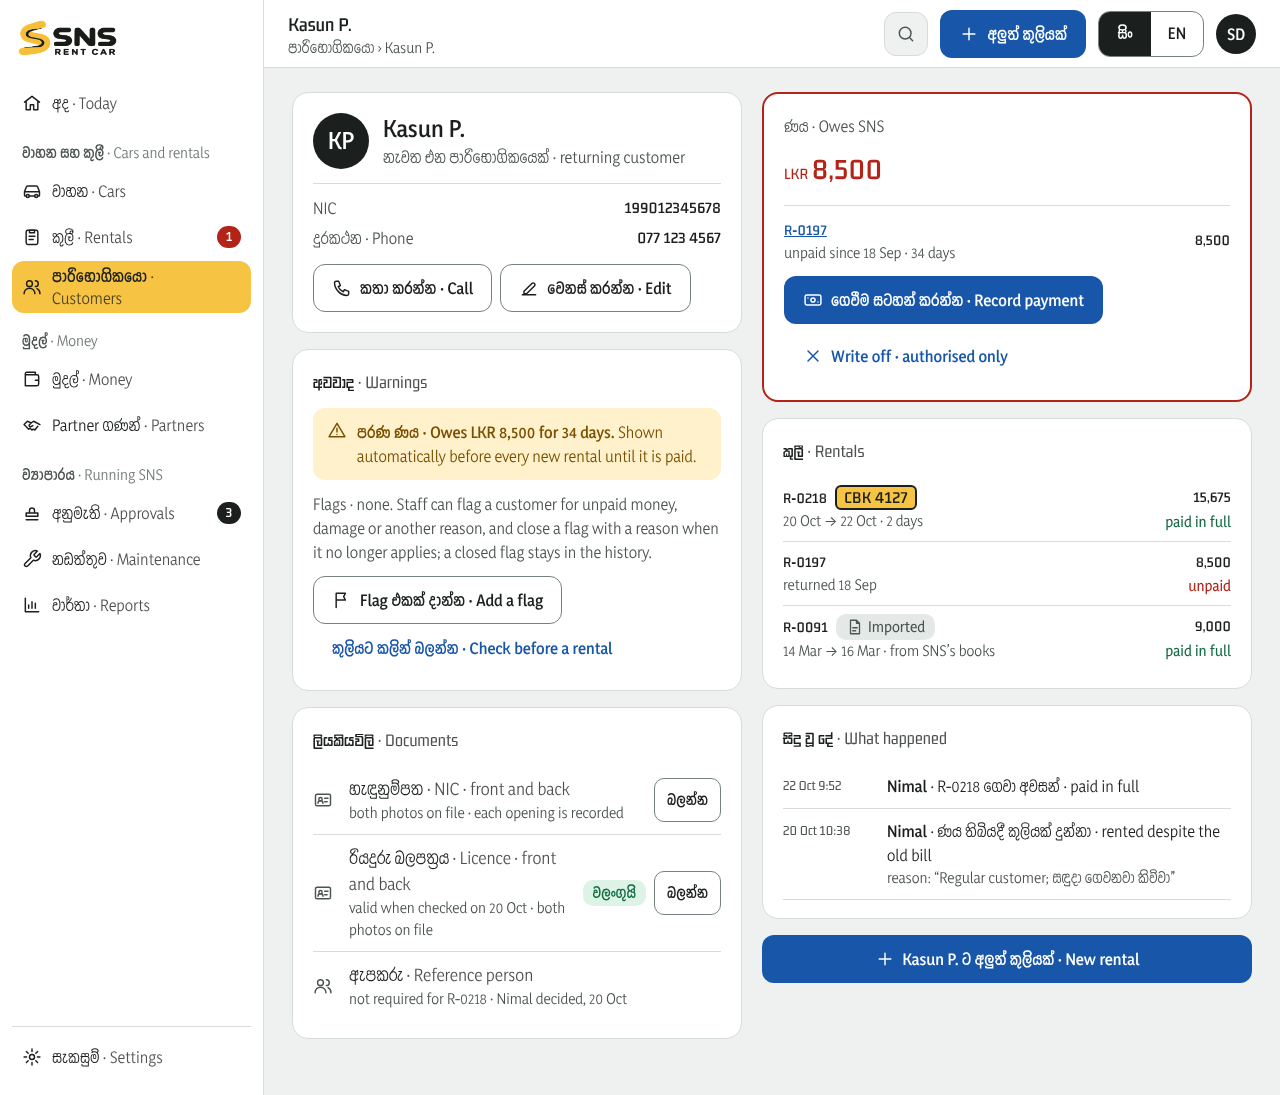
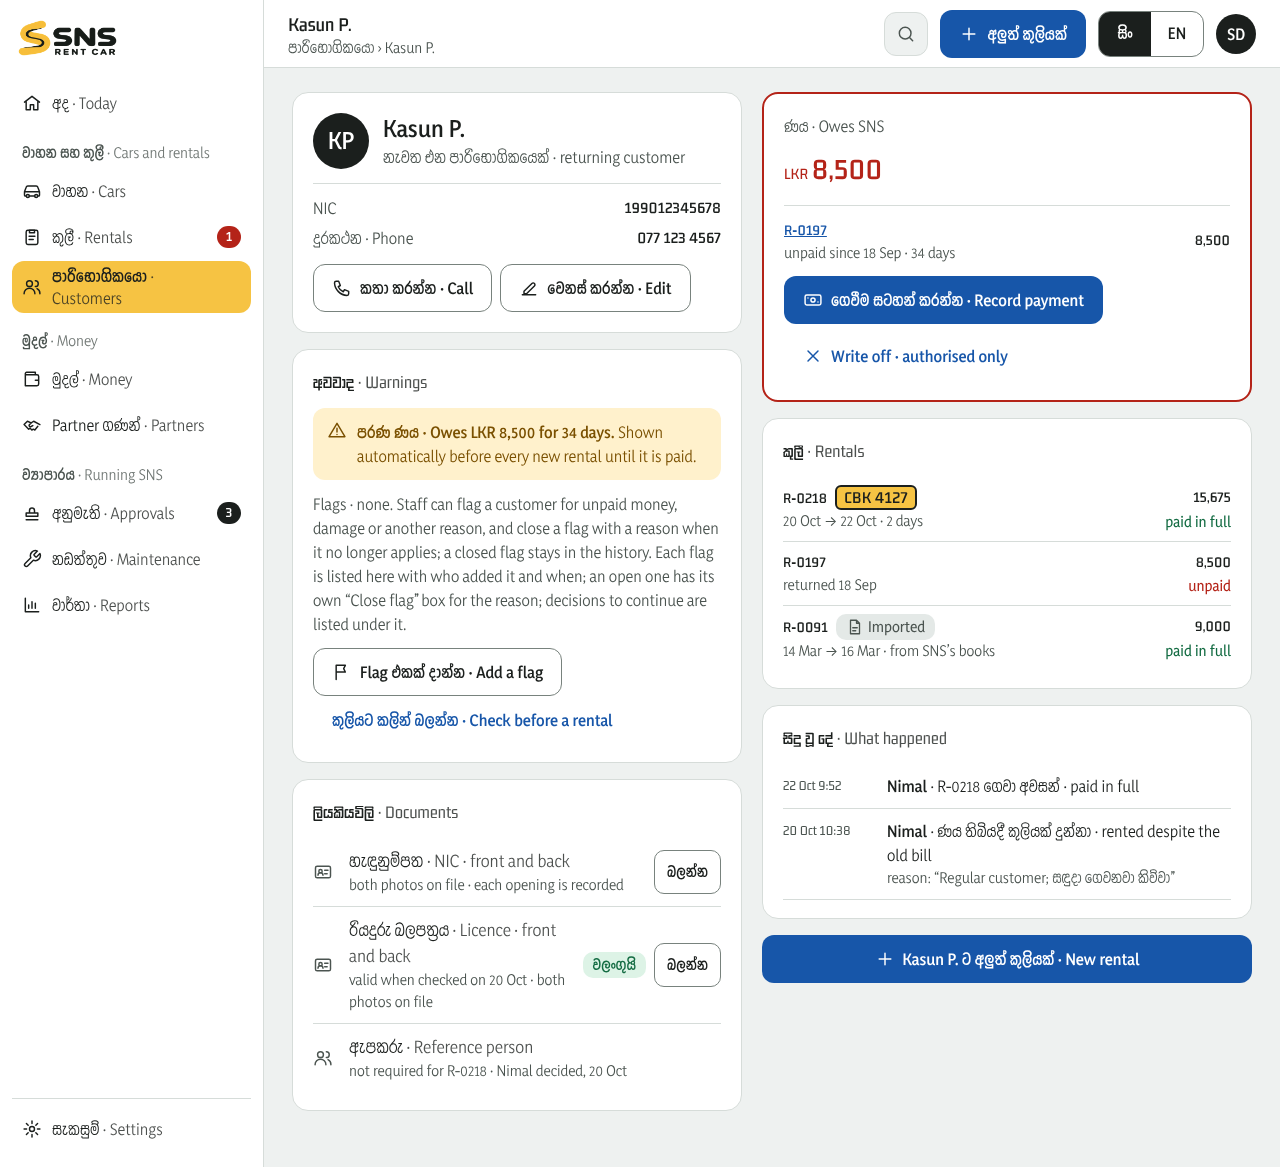
fix(customers): spec review fixes for flags (#24)
- Tests now prove the reason, the name and the time are recorded, and
  that a flag shows to every person (another staff member, an admin).
- "Nothing to warn about" now says only what the page checks: no flags
  and a valid licence; money owed and copies come with New rental.
- System design 6: the 500-letter limit, the "warnings changed" and
  "nothing to record" refusals, the flags and decisions lists, and the
  daily summary in Phase 4, written down as Proposed.
- Board 08.2 says how flags and decisions are listed; the boards below
  it on the canvas moved down to make room.

Claude-Session: https://claude.ai/code/session_01JihUABmzkdXJus8B6m8jnW

diff --git a/app/tests/customer-flags.test.ts b/app/tests/customer-flags.test.ts
@@ -1,7 +1,7 @@
 import { describe, it, expect } from 'vitest';
-import { eq } from 'drizzle-orm';
+import { and, eq } from 'drizzle-orm';
 import { db } from '../src/db/client';
-import { customer, user } from '../src/db/schema';
+import { auditEvent, customer, customerGoAhead, user } from '../src/db/schema';
 import { addCustomer } from '../src/modules/customers/customers';
 import { addFlag, goAhead, warningsFor } from '../src/modules/customers/flags';
 import { setPermission } from '../src/modules/people/people';
@@ -41,10 +41,23 @@ describe('ST-08.4: warnings before a rental', () => {
     // The screen showed no flag, but there is one now: refused.
     expect(await goAhead(staff.id, id, { reason: 'Sample: regular customer', shownFlagIds: [], shownLicenceExpired: false })).toEqual({ error: 'stale' });
     const ok = await goAhead(staff.id, id, { reason: 'Sample: regular customer, mirror paid', shownFlagIds: [flag.id], shownLicenceExpired: false });
-    expect(ok).toMatchObject({ ok: true });
+    if (!('ok' in ok)) throw new Error(ok.error);
+    // The reason, the name and the time are recorded, with the flag that was shown.
+    const [row] = await db.select().from(customerGoAhead).where(eq(customerGoAhead.id, ok.id));
+    expect(row).toMatchObject({ customerId: id, reason: 'Sample: regular customer, mirror paid', createdBy: staff.id, flagIds: [flag.id], licenceExpired: false });
+    expect(Date.now() - row.createdAt.getTime()).toBeLessThan(60_000);
+    const [log] = await db.select().from(auditEvent).where(and(eq(auditEvent.action, 'customer.goAhead'), eq(auditEvent.targetId, id)));
+    expect(log).toMatchObject({ createdBy: staff.id, details: { reason: 'Sample: regular customer, mirror paid', flags: 1 } });
     // Without "Go ahead despite a customer flag" (the owner can take it away), staff cannot.
     await setPermission(await theOwner(), staff.id, 'proceedDespiteFlag', false);
     expect(await goAhead(staff.id, id, { reason: 'Sample', shownFlagIds: [flag.id], shownLicenceExpired: false })).toEqual({ error: 'notAllowed' });
+    // The flag shows to every person, whoever added it: another staff member and an admin both get it, and it was
+    // still shown to the staff member who may no longer continue.
+    const other = await samplePerson();
+    const admin = await samplePerson('first-pass-1', 'admin');
+    expect(await goAhead(other.id, id, { reason: 'Sample: seen', shownFlagIds: [], shownLicenceExpired: false })).toEqual({ error: 'stale' });
+    expect(await goAhead(admin.id, id, { reason: 'Sample: seen by the admin', shownFlagIds: [flag.id], shownLicenceExpired: false })).toMatchObject({ ok: true });
+    expect((await warningsFor(id))!.openFlags.map((f) => f.id)).toEqual([flag.id]);
   });
 
   it('with an expired licence, staff cannot continue; the authorised person can, and the licence stays expired', async () => {

diff --git a/screens/canvas/08-Customers-CustomerDetails-Phone.dc.html b/screens/canvas/08-Customers-CustomerDetails-Phone.dc.html
@@ -47,7 +47,7 @@ a{color:#1756a9}a:hover{color:#0f3e7e}
     <x-import component-from-global-scope="Plate.Icon" name="alert" size="{{twenty}}" style="flex: none; margin-top: 2px"></x-import>
     <span><b>පරණ ණය · Owes LKR 8,500 for 34 days.</b> Shown automatically before every new rental until it is paid.</span>
   </div>
-  <div style="font-size: 15px; line-height: 24px; color: var(--ink-muted)">Flags · none. Staff can flag a customer for unpaid money, damage or another reason, and close a flag with a reason when it no longer applies; a closed flag stays in the history.</div>
+  <div style="font-size: 15px; line-height: 24px; color: var(--ink-muted)">Flags · none. Staff can flag a customer for unpaid money, damage or another reason, and close a flag with a reason when it no longer applies; a closed flag stays in the history. Each flag is listed here with who added it and when; an open one has its own “Close flag” box for the reason; decisions to continue are listed under it.</div>
   <div><a href="08-Customers-AddFlag-Phone.dc.html" class="rt-btn rt-btn-secondary" style="box-sizing: border-box; text-decoration: none; color: var(--ink)"><x-import component-from-global-scope="Plate.Icon" name="flag" size="{{twenty}}"></x-import><span>Flag එකක් දාන්න · Add a flag</span></a><a href="08-Customers-Warnings-Phone.dc.html" class="rt-btn rt-btn-quiet" style="box-sizing: border-box; text-decoration: none; color: var(--sapphire)"><span>කුලියට කලින් බලන්න · Check before a rental</span></a></div>
 </section>
     <section style="display: flex; flex-direction: column; gap: 12px; padding: 18px 20px; background: var(--card); border: 1px solid var(--line); border-radius: 16px">
@@ -90,7 +90,7 @@ a{color:#1756a9}a:hover{color:#0f3e7e}
   <div style="padding: 12px 16px; background: var(--card); border-top: 1px solid var(--line)"><a href="05-NewRental-Customer-Phone.dc.html" class="rt-btn rt-btn-primary rt-btn-full" style="box-sizing: border-box; text-decoration: none; color: var(--on-sapphire)"><x-import component-from-global-scope="Plate.Icon" name="plus" size="{{twenty}}"></x-import><span>අලුත් කුලියක් · New rental</span></a></div>
 </div>
 </x-dc>
-<script type="text/x-dc" data-dc-script data-props='{"$preview":{"width":390,"height":2229}}'>
+<script type="text/x-dc" data-dc-script data-props='{"$preview":{"width":390,"height":2301}}'>
 class Component extends DCLogic {
   renderVals() {
     return {

diff --git a/screens/previews/html/08-Customers-CustomerDetails-Desktop.html b/screens/previews/html/08-Customers-CustomerDetails-Desktop.html
@@ -558,7 +558,7 @@ a{color:#1756a9}a:hover{color:#0f3e7e}
     <span data-x-import="Plate.Icon" style="display: contents; flex: none; margin-top: 2px"><svg class="rt-ico" width="20" height="20" viewBox="0 0 24 24" fill="none" stroke="currentColor" stroke-width="1.75" stroke-linecap="round" stroke-linejoin="round" aria-hidden="true"><path d="M12 4l9.5 16h-19z"></path><path d="M12 10v4.5M12 17.5v.01"></path></svg></span>
     <span><b>පරණ ණය · Owes LKR 8,500 for 34 days.</b> Shown automatically before every new rental until it is paid.</span>
   </div>
-  <div style="font-size: 15px; line-height: 24px; color: var(--ink-muted)">Flags · none. Staff can flag a customer for unpaid money, damage or another reason, and close a flag with a reason when it no longer applies; a closed flag stays in the history.</div>
+  <div style="font-size: 15px; line-height: 24px; color: var(--ink-muted)">Flags · none. Staff can flag a customer for unpaid money, damage or another reason, and close a flag with a reason when it no longer applies; a closed flag stays in the history. Each flag is listed here with who added it and when; an open one has its own “Close flag” box for the reason; decisions to continue are listed under it.</div>
   <div><a href="08-Customers-AddFlag-Desktop.html" class="rt-btn rt-btn-secondary" style="box-sizing: border-box; text-decoration: none; color: var(--ink)"><span data-x-import="Plate.Icon" style="display: contents;"><svg class="rt-ico" width="20" height="20" viewBox="0 0 24 24" fill="none" stroke="currentColor" stroke-width="1.75" stroke-linecap="round" stroke-linejoin="round" aria-hidden="true"><path d="M5 21V4M5 4h11l-2 4 2 4H5"></path></svg></span><span>Flag එකක් දාන්න · Add a flag</span></a><a href="08-Customers-Warnings-Desktop.html" class="rt-btn rt-btn-quiet" style="box-sizing: border-box; text-decoration: none; color: var(--sapphire)"><span>කුලියට කලින් බලන්න · Check before a rental</span></a></div>
 </section>
         <section style="display: flex; flex-direction: column; gap: 12px; padding: 18px 20px; background: var(--card); border: 1px solid var(--line); border-radius: 16px">

diff --git a/screens/previews/html/08-Customers-CustomerDetails-Phone.html b/screens/previews/html/08-Customers-CustomerDetails-Phone.html
@@ -567,7 +567,7 @@ a{color:#1756a9}a:hover{color:#0f3e7e}
     <span data-x-import="Plate.Icon" style="display: contents; flex: none; margin-top: 2px"><svg class="rt-ico" width="20" height="20" viewBox="0 0 24 24" fill="none" stroke="currentColor" stroke-width="1.75" stroke-linecap="round" stroke-linejoin="round" aria-hidden="true"><path d="M12 4l9.5 16h-19z"></path><path d="M12 10v4.5M12 17.5v.01"></path></svg></span>
     <span><b>පරණ ණය · Owes LKR 8,500 for 34 days.</b> Shown automatically before every new rental until it is paid.</span>
   </div>
-  <div style="font-size: 15px; line-height: 24px; color: var(--ink-muted)">Flags · none. Staff can flag a customer for unpaid money, damage or another reason, and close a flag with a reason when it no longer applies; a closed flag stays in the history.</div>
+  <div style="font-size: 15px; line-height: 24px; color: var(--ink-muted)">Flags · none. Staff can flag a customer for unpaid money, damage or another reason, and close a flag with a reason when it no longer applies; a closed flag stays in the history. Each flag is listed here with who added it and when; an open one has its own “Close flag” box for the reason; decisions to continue are listed under it.</div>
   <div><a href="08-Customers-AddFlag-Phone.html" class="rt-btn rt-btn-secondary" style="box-sizing: border-box; text-decoration: none; color: var(--ink)"><span data-x-import="Plate.Icon" style="display: contents;"><svg class="rt-ico" width="20" height="20" viewBox="0 0 24 24" fill="none" stroke="currentColor" stroke-width="1.75" stroke-linecap="round" stroke-linejoin="round" aria-hidden="true"><path d="M5 21V4M5 4h11l-2 4 2 4H5"></path></svg></span><span>Flag එකක් දාන්න · Add a flag</span></a><a href="08-Customers-Warnings-Phone.html" class="rt-btn rt-btn-quiet" style="box-sizing: border-box; text-decoration: none; color: var(--sapphire)"><span>කුලියට කලින් බලන්න · Check before a rental</span></a></div>
 </section>
     <section style="display: flex; flex-direction: column; gap: 12px; padding: 18px 20px; background: var(--card); border: 1px solid var(--line); border-radius: 16px">

diff --git a/screens/canvas/08-Customers-CustomerDetails-Desktop.dc.html b/screens/canvas/08-Customers-CustomerDetails-Desktop.dc.html
@@ -38,7 +38,7 @@ a{color:#1756a9}a:hover{color:#0f3e7e}
     <x-import component-from-global-scope="Plate.Icon" name="alert" size="{{twenty}}" style="flex: none; margin-top: 2px"></x-import>
     <span><b>පරණ ණය · Owes LKR 8,500 for 34 days.</b> Shown automatically before every new rental until it is paid.</span>
   </div>
-  <div style="font-size: 15px; line-height: 24px; color: var(--ink-muted)">Flags · none. Staff can flag a customer for unpaid money, damage or another reason, and close a flag with a reason when it no longer applies; a closed flag stays in the history.</div>
+  <div style="font-size: 15px; line-height: 24px; color: var(--ink-muted)">Flags · none. Staff can flag a customer for unpaid money, damage or another reason, and close a flag with a reason when it no longer applies; a closed flag stays in the history. Each flag is listed here with who added it and when; an open one has its own “Close flag” box for the reason; decisions to continue are listed under it.</div>
   <div><a href="08-Customers-AddFlag-Desktop.dc.html" class="rt-btn rt-btn-secondary" style="box-sizing: border-box; text-decoration: none; color: var(--ink)"><x-import component-from-global-scope="Plate.Icon" name="flag" size="{{twenty}}"></x-import><span>Flag එකක් දාන්න · Add a flag</span></a><a href="08-Customers-Warnings-Desktop.dc.html" class="rt-btn rt-btn-quiet" style="box-sizing: border-box; text-decoration: none; color: var(--sapphire)"><span>කුලියට කලින් බලන්න · Check before a rental</span></a></div>
 </section>
         <section style="display: flex; flex-direction: column; gap: 12px; padding: 18px 20px; background: var(--card); border: 1px solid var(--line); border-radius: 16px">
@@ -97,7 +97,7 @@ a{color:#1756a9}a:hover{color:#0f3e7e}
   </div>
 </div>
 </x-dc>
-<script type="text/x-dc" data-dc-script data-props='{"$preview":{"width":1280,"height":1095}}'>
+<script type="text/x-dc" data-dc-script data-props='{"$preview":{"width":1280,"height":1167}}'>
 class Component extends DCLogic {
   renderVals() {
     return {

diff --git a/SNS_SYSTEM_DESIGN.md b/SNS_SYSTEM_DESIGN.md
@@ -233,7 +233,7 @@ An accessories checklist and the fuel level are recorded at handover and return.
 
 An expired customer driving licence triggers a warning. An authorised person may override it with a reason. An override does not make the licence legally valid.
 
-Staff may flag a customer for unpaid balances, damage, or other issues. Warnings appear before future rentals; employees may proceed with a recorded reason. Employees or admins close a flag with a reason (for example, the money was paid); it stops warning but stays in the customer's history with who closed it and when. Nothing is deleted. Confirmed: agreed by the owner, recorded by Dulan. An unpaid customer debt warns on its own, as a flag does, before every new rental until it is paid or written off; employees may proceed with a recorded reason. Confirmed: agreed by the owner, recorded by Dulan. Flags are added and closed by people with "Customer access" (staff, admin and owner by default; never partners); a flag needs its reason (unpaid money, damaged a car, something else) and what happened. Until rentals come (Phase 2), each customer's page has "Check before a rental": it shows the open flags and an expired driving licence, and "Continue with reason" records the decision with the person's name and the time. With an expired licence only people with "Override expired-document warnings" may continue. Proposed: Dulan, 4 Nov 2026; for the owner to confirm.
+Staff may flag a customer for unpaid balances, damage, or other issues. Warnings appear before future rentals; employees may proceed with a recorded reason. Employees or admins close a flag with a reason (for example, the money was paid); it stops warning but stays in the customer's history with who closed it and when. Nothing is deleted. Confirmed: agreed by the owner, recorded by Dulan. An unpaid customer debt warns on its own, as a flag does, before every new rental until it is paid or written off; employees may proceed with a recorded reason. Confirmed: agreed by the owner, recorded by Dulan. Flags are added and closed by people with "Customer access" (staff, admin and owner by default; never partners); a flag needs its reason (unpaid money, damaged a car, something else) and what happened. Until rentals come (Phase 2), each customer's page has "Check before a rental": it shows the open flags and an expired driving licence, and "Continue with reason" records the decision with the person's name and the time. With an expired licence only people with "Override expired-document warnings" may continue. Proposed: Dulan, 4 Nov 2026; for the owner to confirm. Also, from the #24 build: what happened and each reason are up to 500 letters; a decision is not saved if the warnings changed after they were shown (the page shows them again); with nothing to warn about there is no decision to record; the customer's page lists all flags (closing an open one there) and the decisions to continue; the reason reaches the owner's daily summary when that summary is built (Phase 4). Proposed: 4 Nov 2026; for Dulan and the owner to confirm.
 
 **Document copies.** Customer and reference-person ID and licence copies are kept while the customer is active and for 7 years after their last rental or settled debt. The system then lists them for the primary owner, who deletes them; a signed agreement stays with its rental. Staff and admins with customer access can open copies; every opening is logged with who and when. Copies are never shared outside the system. Confirmed: agreed by the owner, recorded by Dulan; SNS should check the period against Sri Lankan law (Personal Data Protection Act) before go-live. The copies are four photos or scans: NIC front and back, licence front and back; each is a photo (JPEG, PNG, WebP or HEIC) or a PDF of up to 10 MB, kept as taken. Whether a reference person is needed is decided for each rental, with the rental (Phase 2). A customer shows "copies missing", and handover stays blocked, until all four copies are in. A customer's NIC is a Sri Lankan NIC as on the card (9 digits and V or X, or 12 digits; a renter without one is Open, §18); the phone number has 9 to 15 digits, with a + for a foreign number; the licence number is kept in capitals. A mistyped NIC is corrected only by the primary owner or the admin, with a reason, and never to a NIC another customer has; the log keeps the old and new NIC. Each opening of a copy is also in the activity log. Proposed: Dulan, 1 Nov 2026; for the owner to confirm.
 
